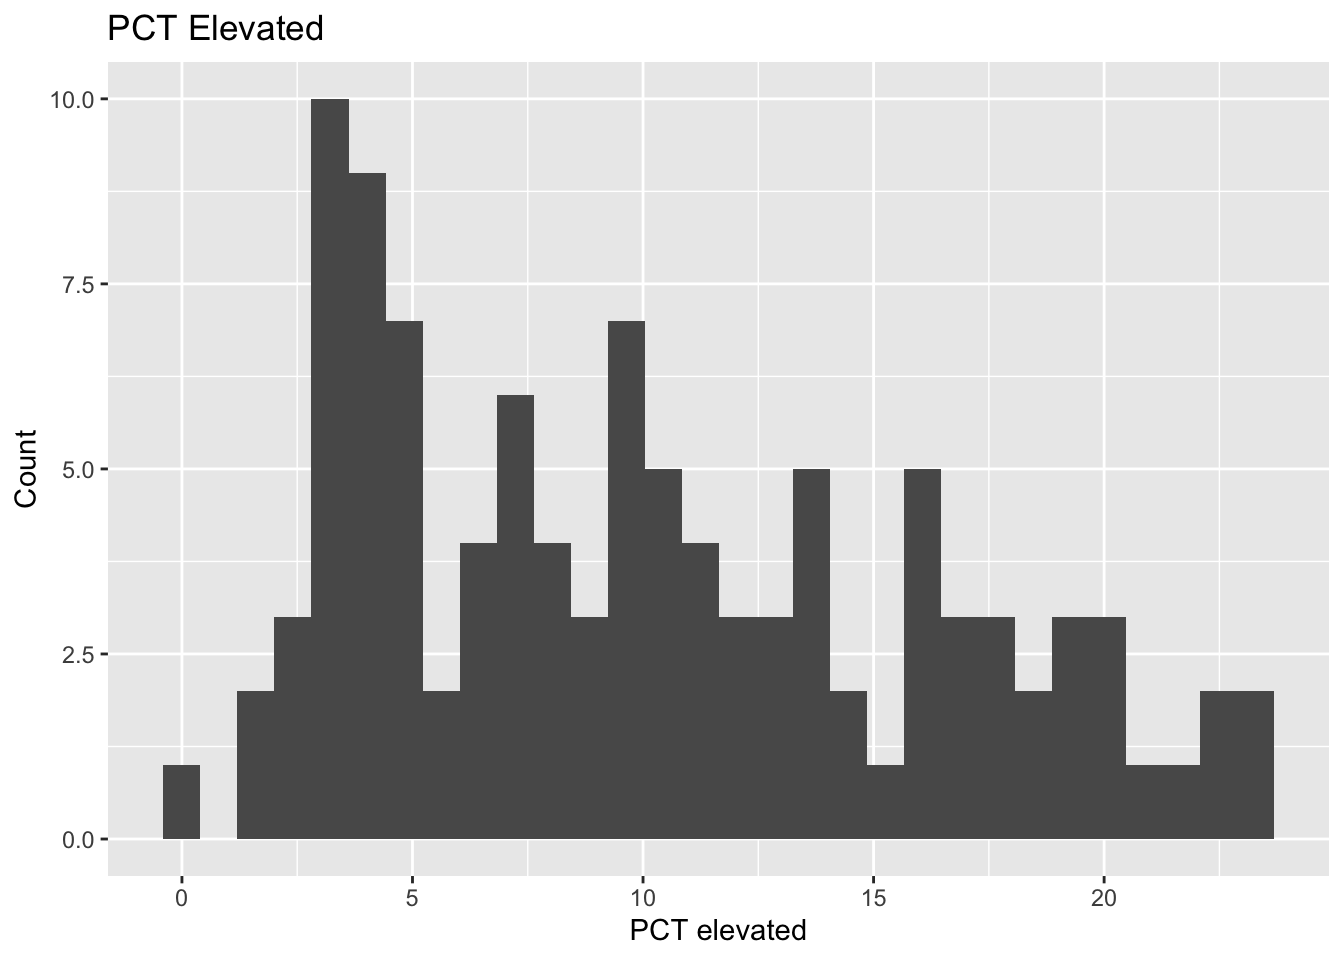
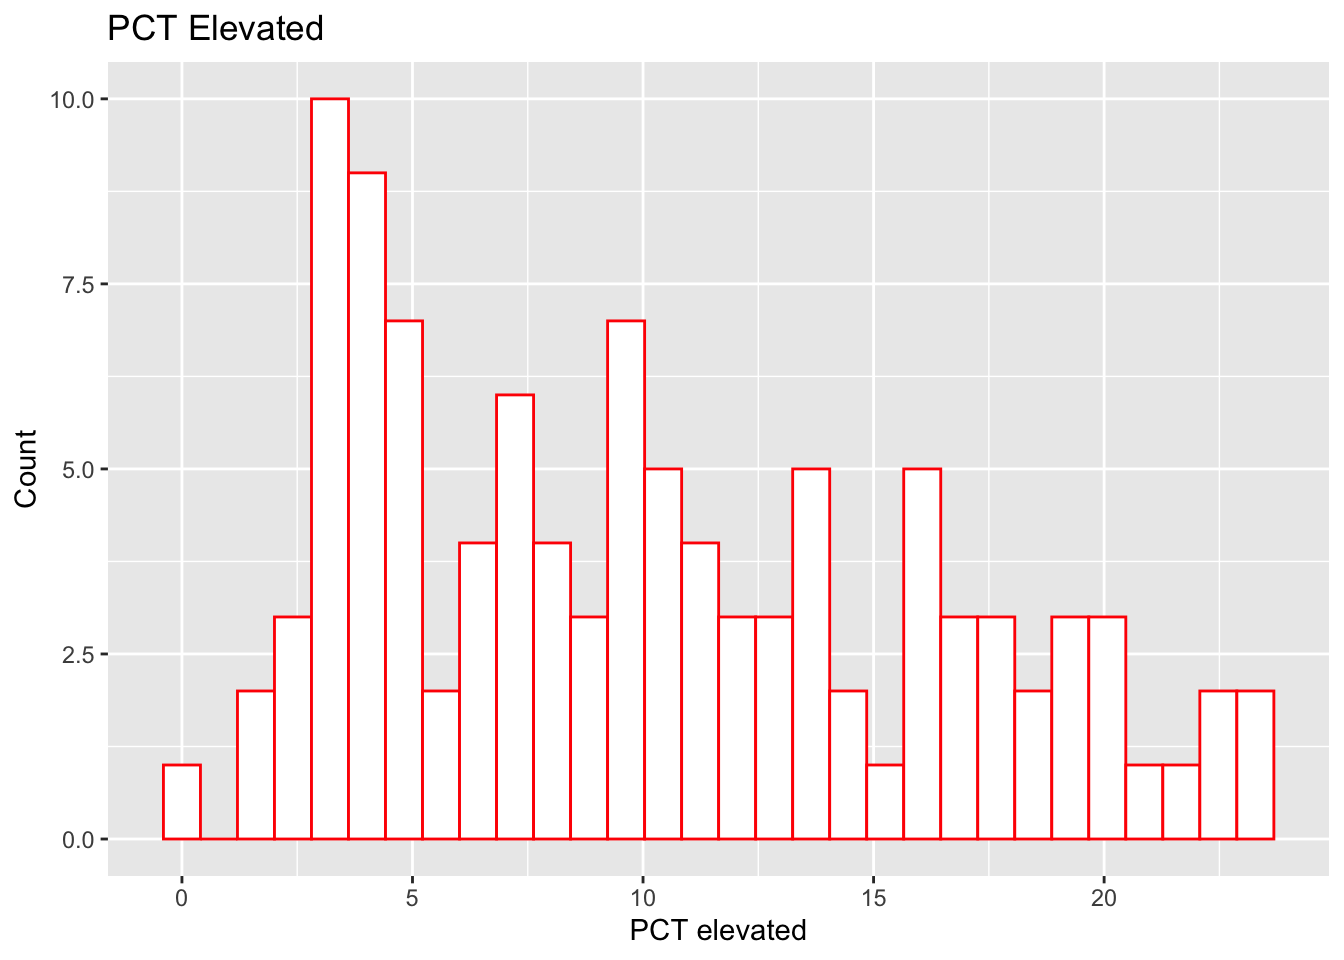
added color to histogram

Changed region(s): [[0.0938, 0.0938, 0.9688, 0.875]]

diff --git a/docs/task_1_eds_221.html b/docs/task_1_eds_221.html
@@ -547,7 +547,7 @@ $ poverty_u18_moe &lt;dbl&gt; 105, 156, 60, 25, 47, 595, 136, 79, 318, 23, 30, 7
 <section id="histogram" class="level3">
 <h3 class="anchored" data-anchor-id="histogram">Histogram</h3>
 <div class="cell">
-<div class="sourceCode cell-code" id="cb19"><pre class="sourceCode r code-with-copy"><code class="sourceCode r"><span id="cb19-1"><a href="#cb19-1" aria-hidden="true" tabindex="-1"></a>pct_elevated_plot <span class="ot">&lt;-</span> <span class="fu">ggplot</span>(<span class="at">data =</span> stl_lead_prop, <span class="fu">aes</span>(<span class="at">x =</span> pct_elevated)) <span class="sc">+</span> <span class="fu">geom_histogram</span>() <span class="sc">+</span> <span class="fu">labs</span>(<span class="at">title =</span> <span class="st">"PCT Elevated"</span>,</span>
+<div class="sourceCode cell-code" id="cb19"><pre class="sourceCode r code-with-copy"><code class="sourceCode r"><span id="cb19-1"><a href="#cb19-1" aria-hidden="true" tabindex="-1"></a>pct_elevated_plot <span class="ot">&lt;-</span> <span class="fu">ggplot</span>(<span class="at">data =</span> stl_lead_prop, <span class="fu">aes</span>(<span class="at">x =</span> pct_elevated)) <span class="sc">+</span> <span class="fu">geom_histogram</span>(<span class="at">color =</span> <span class="st">"red"</span>, <span class="at">fill=</span><span class="st">"white"</span>) <span class="sc">+</span> <span class="fu">labs</span>(<span class="at">title =</span> <span class="st">"PCT Elevated"</span>,</span>
 <span id="cb19-2"><a href="#cb19-2" aria-hidden="true" tabindex="-1"></a>       <span class="at">x =</span> <span class="st">"PCT elevated"</span>, </span>
 <span id="cb19-3"><a href="#cb19-3" aria-hidden="true" tabindex="-1"></a>       <span class="at">y =</span> <span class="st">"Count"</span>)</span>
 <span id="cb19-4"><a href="#cb19-4" aria-hidden="true" tabindex="-1"></a></span>
